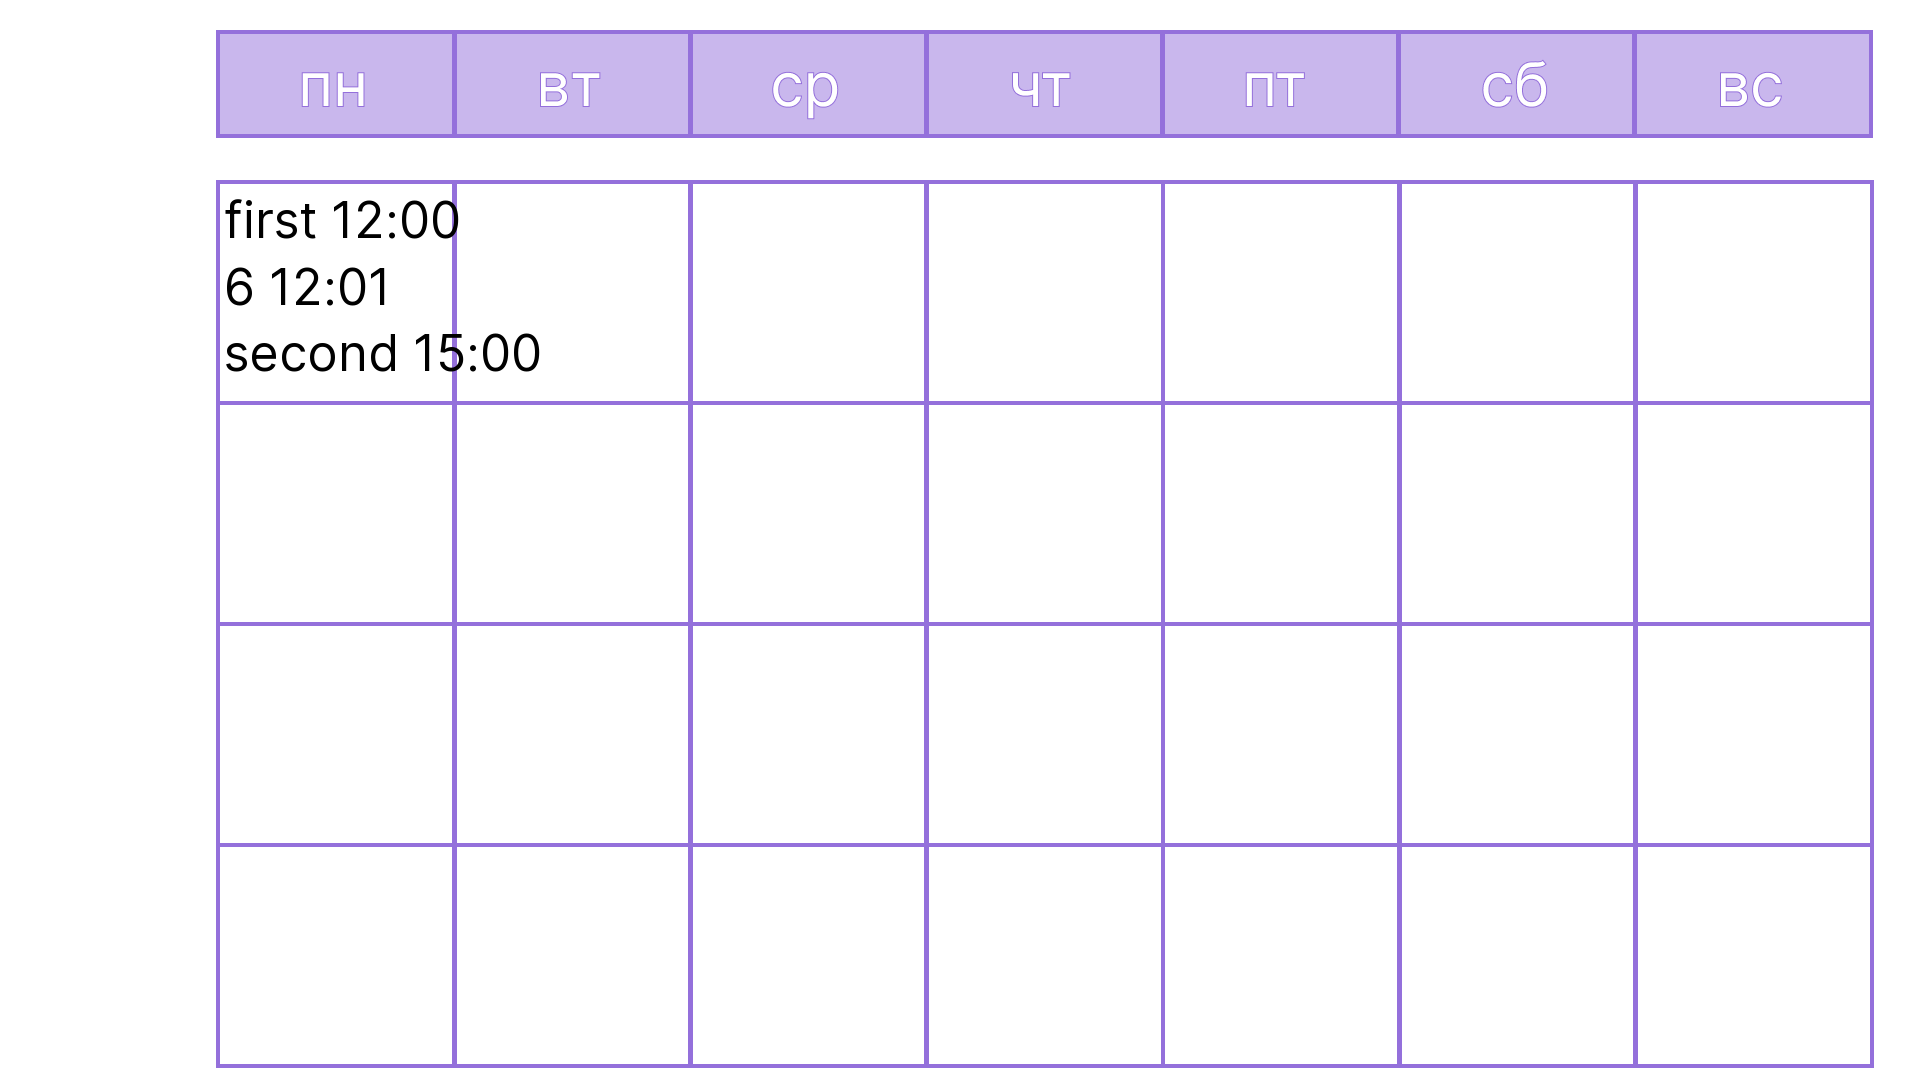
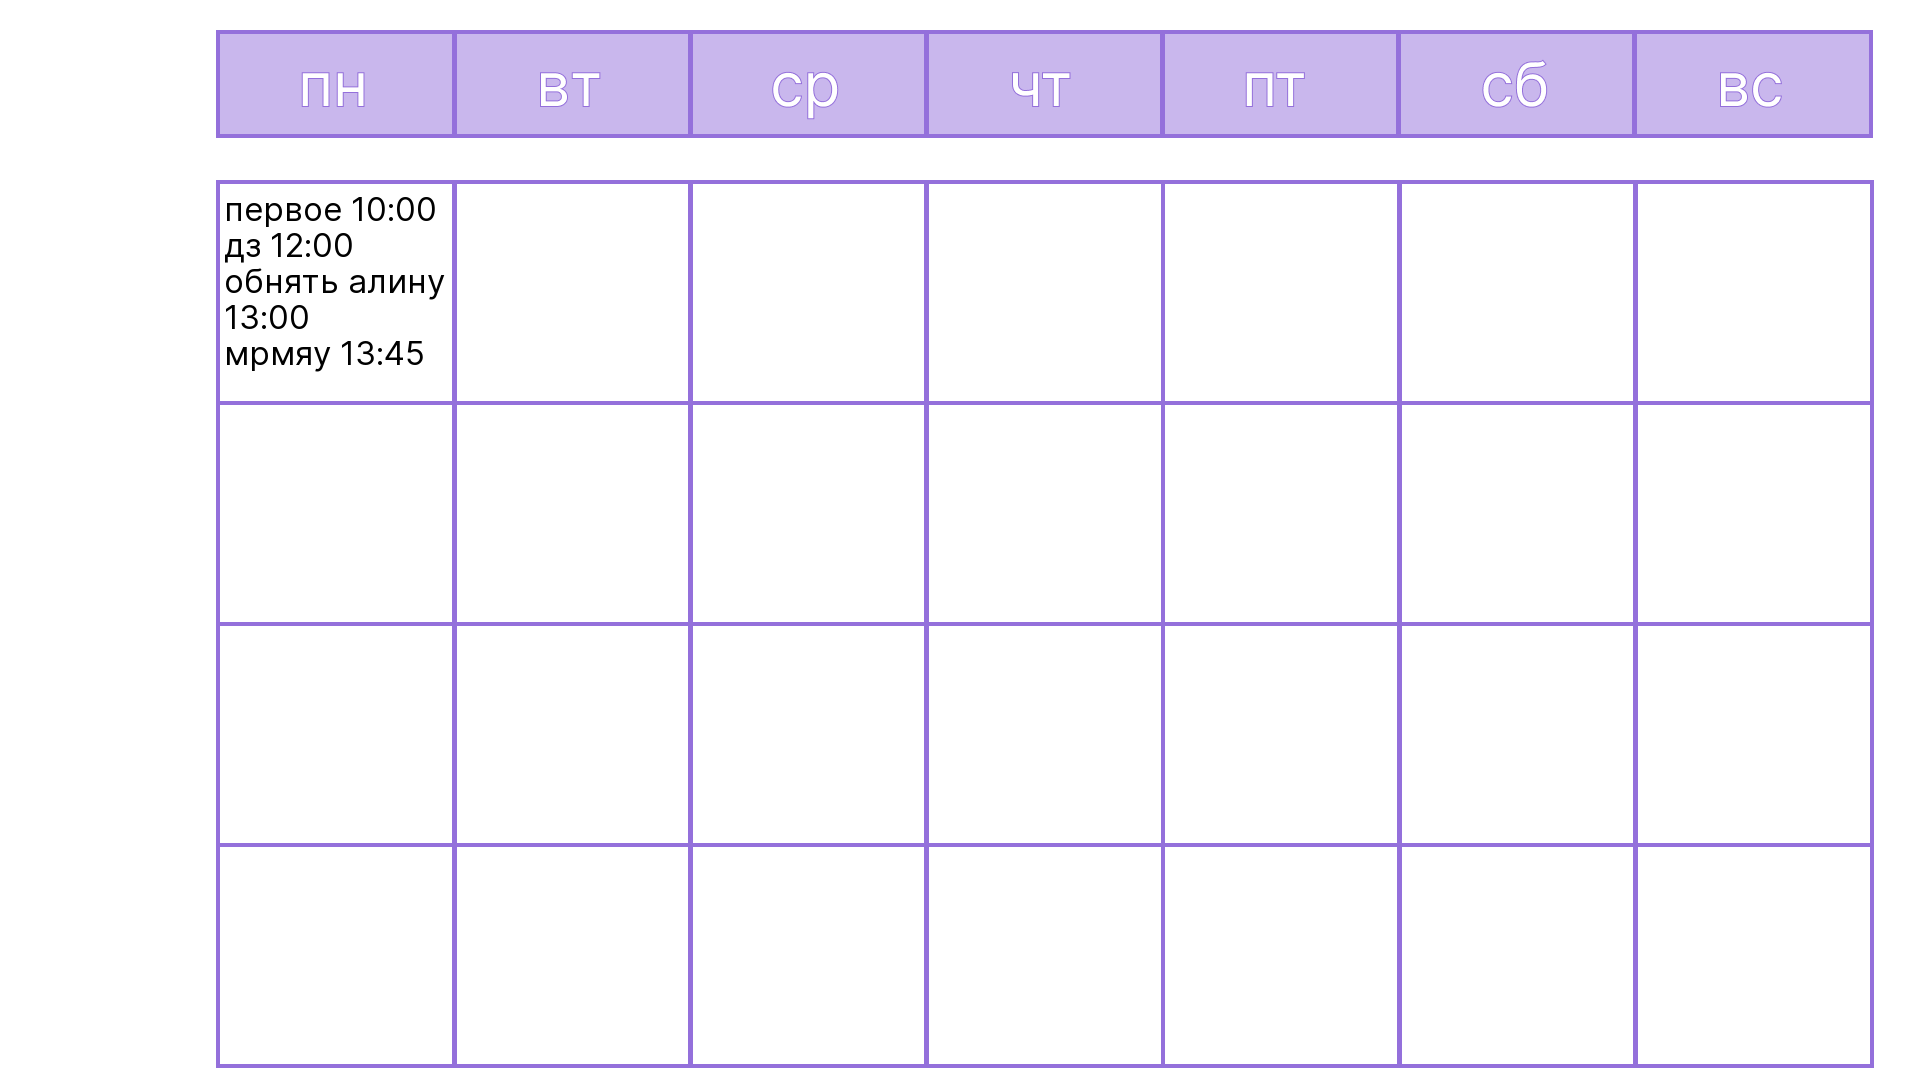
регулировка текста (размер шрифта и перенос строк) в зависимости от рамок ячеек

Changed region(s): [[0.0938, 0.1833, 0.2812, 0.3667]]

diff --git a/img_crt.py b/img_crt.py
@@ -25,7 +25,6 @@ def list_tasks(text):
         task_dict[task_time] = line
 
     sorted_dict = dict(sorted(task_dict.items()))
-    print(sorted_dict)
     res = ''
     for el in sorted_dict.values():
         res += el + '/'
@@ -39,22 +38,63 @@ def img_crt(type_img, text):
     lines = lines.split('/')
     num_lines = len(lines)
     if type_img == 'month':
+
         main_img = Image.open("img/month.png")
         idraw = ImageDraw.Draw(main_img)
-        cur_size = int(203 / (num_lines + 1))
+        cur_size = 203 // (num_lines + 1)  # размер шрифта
+        for i in range(len(lines)):
+            line = lines[i]
+            need_len = cur_size // 3
+            if need_len >= len(line):
+                new_line = line + '\n'
+            else:
+                num_lines += 1
+                if (len(line) - need_len) <= 5:
+                    new_line = line[:-5].strip() + '\n' + line[-5:].strip() + '\n'
+                else:
+                    new_line = line[:-len(line) + need_len].strip() + '\n' + line[-(
+                            len(line) - need_len) + 2:].strip() + '\n'
+                if i == len(lines) - 1:
+                    new_line = new_line[:-1]
+            lines[i] = new_line
+        cur_size = 203 // (num_lines + 1)
         font = ImageFont.truetype("Inter-V.ttf", size=cur_size)
         x_line = 224
         y_line = 189
-        for line in lines:
-            idraw.text((x_line, y_line), line.strip(), font=font, fill=(0, 0, 0, 255))
-            y_line += cur_size + cur_size / num_lines
+
+        res_text = ''.join(lines)
+        idraw.text((x_line, y_line), res_text, font=font, fill=(0, 0, 0, 255))  # пишет в ячейку
+
+        # обработка и вывод текста отдельно по строчкам (изначальный вариант).
+        # было принято решение внутри одного текста менять строчки, но не разделять их и не выводить отдельно
+
+        # for line in lines:
+        #     # print(238 // cur_size)
+        #     # if 238 * 2 // cur_size <= len(line):
+        #     #     cur_size -= 5
+        #     # else:
+        #     #     cur_size = int(203 / (num_lines + 1))
+        #     #     print(line, 'DONE')
+        #     # print(line, cur_size)
+        #
+        #     need_len = cur_size // 5
+        #     print(need_len, len(line))
+        #     if need_len <= len(line):
+        #         idraw.text((x_line, y_line), line.strip(), font=font, fill=(0, 0, 0, 255))  # пишет в ячейку
+        #         y_line += cur_size + cur_size / num_lines  # коорд новой строчки по оси игрек
+        #     else:
+        #         if (len(line) - need_len) <= 5:
+        #             idraw.text((x_line, y_line), line[:5].strip(), font=font, fill=(0, 0, 0, 255))  # пишет в ячейку
+        #             y_line += cur_size + cur_size / num_lines  # коорд новой строчки по оси игрек
+        #             idraw.text((x_line, y_line), line[-5:].strip(), font=font, fill=(0, 0, 0, 255))  # пишет в ячейку
+        #             num_lines += 1
     elif type_img == 'day':
         # main_img = Image.open("img/day.png")
         pass
     main_img.save('img/res_month_img.png')
 
 
-img_crt('month', 'first/second 15:00/6')
+img_crt('month', 'первое 10:00/дз/обнять алину 13:00/мрмяу 13:45')
 
 # print(list_tasks('first 12:00/sec 10:00'))
 
